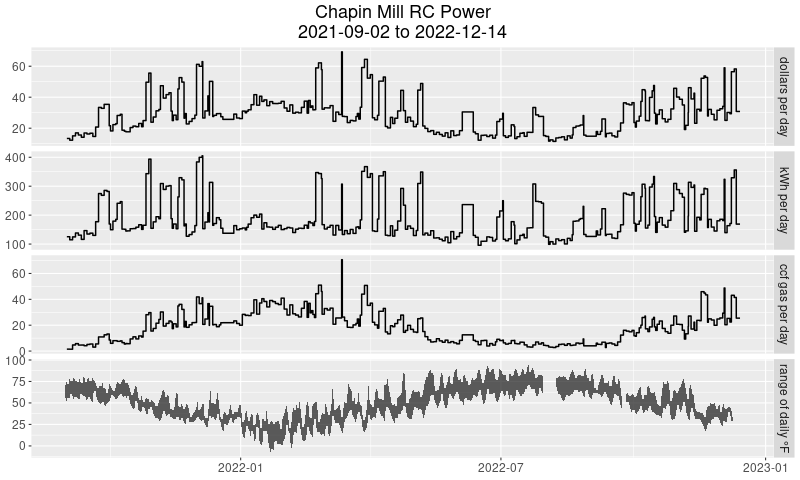
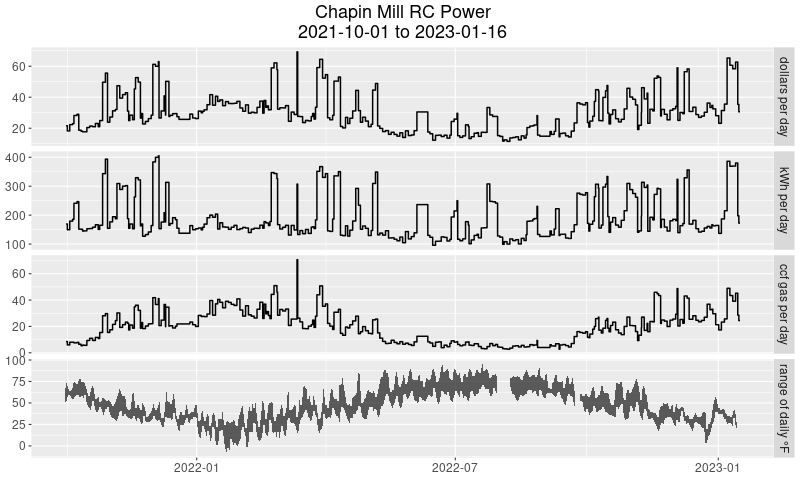
auto commit

diff --git a/index.html b/index.html
@@ -3,7 +3,7 @@
 "http://www.w3.org/TR/xhtml1/DTD/xhtml1-strict.dtd">
 <html xmlns="http://www.w3.org/1999/xhtml" lang="en" xml:lang="en">
 <head>
-<!-- 2022-12-15 Thu 07:37 -->
+<!-- 2023-01-16 Mon 05:14 -->
 <meta http-equiv="Content-Type" content="text/html;charset=utf-8" />
 <meta name="viewport" content="width=device-width, initial-scale=1" />
 <title>Chapin Mill Energy</title>
@@ -218,13 +218,13 @@
 <body>
 <div id="content" class="content">
 <h1 class="title">Chapin Mill Energy</h1>
-<div id="outline-container-org894d042" class="outline-2">
-<h2 id="org894d042">Energy Comparisons</h2>
-<div class="outline-text-2" id="text-org894d042">
+<div id="outline-container-org8f8fd15" class="outline-2">
+<h2 id="org8f8fd15">Energy Comparisons</h2>
+<div class="outline-text-2" id="text-org8f8fd15">
 </div>
-<div id="outline-container-orgef6f298" class="outline-3">
-<h3 id="orgef6f298">Energy Consumption and Weather</h3>
-<div class="outline-text-3" id="text-orgef6f298">
+<div id="outline-container-org07033db" class="outline-3">
+<h3 id="org07033db">Energy Consumption and Weather</h3>
+<div class="outline-text-3" id="text-org07033db">
 <p>
 The plot below describes outdoor air temperatures and the rate of
 retreat center energy consumption for the past few months. These
@@ -261,7 +261,7 @@ energy consumption.
 </p>
 
 
-<div id="orgc4639be" class="figure">
+<div id="org68b28ba" class="figure">
 <p><img src="energy.png" alt="energy.png" />
 </p>
 </div>
@@ -277,7 +277,7 @@ patterns.
 </p>
 
 
-<div id="org576e733" class="figure">
+<div id="org18c377b" class="figure">
 <p><img src="dollars.png" alt="dollars.png" />
 </p>
 </div>
@@ -292,14 +292,14 @@ dollar cost&#x2014;over all times of the year and over all events.
 </p>
 
 
-<div id="orga198dfc" class="figure">
+<div id="org37048b6" class="figure">
 <p><img src="hist.png" alt="hist.png" />
 </p>
 </div>
 
 <p>
 To be slightly more precise, 95% of the time the observed
-electricity power consumption was less than <code>307</code>
+electricity power consumption was less than <code>308</code>
 kWh per day, gas consumption was less than
 <code>44</code> hundred cubic feet per day and the
 overall energy cost was less than <code>52</code> dollars per
@@ -329,7 +329,7 @@ within 45 and 60 dollars.
 </p>
 
 
-<div id="orgebbebd7" class="figure">
+<div id="orgc35cd0a" class="figure">
 <p><img src="regime.png" alt="regime.png" />
 </p>
 </div>
@@ -359,7 +359,7 @@ heated for sesshin setup.)
 </p>
 
 
-<div id="org43f128c" class="figure">
+<div id="orgaef9295" class="figure">
 <p><img src="energy2.png" alt="energy2.png" />
 </p>
 </div>
@@ -375,7 +375,7 @@ value is the average of the temperature readings over that period.
 </p>
 
 
-<div id="orgab153d0" class="figure">
+<div id="org434cfd2" class="figure">
 <p><img src="scatter.png" alt="scatter.png" />
 </p>
 </div>
@@ -389,9 +389,9 @@ the results would not be very interesting.
 </div>
 </div>
 
-<div id="outline-container-org47ee8c7" class="outline-3">
-<h3 id="org47ee8c7">Natural gas</h3>
-<div class="outline-text-3" id="text-org47ee8c7">
+<div id="outline-container-orga3ed8e0" class="outline-3">
+<h3 id="orga3ed8e0">Natural gas</h3>
+<div class="outline-text-3" id="text-orga3ed8e0">
 <p>
 For a given level of occupancy of the retreat center it would be
 natural to consider gas consumption as consisting of two parts:
@@ -423,7 +423,7 @@ scaling factors relate gas consumption in ccf (100s of cubic feet)
 per day to degrees Fahrenheit. 95% confidence intervals are
 </p>
 
-<div id="vfhixwcxay" style="padding-left:0px;padding-right:0px;padding-top:10px;padding-bottom:10px;overflow-x:auto;overflow-y:auto;width:auto;height:auto;">
+<div id="anyzsqsvoc" style="padding-left:0px;padding-right:0px;padding-top:10px;padding-bottom:10px;overflow-x:auto;overflow-y:auto;width:auto;height:auto;">
 
   <table class="gt_table" style="font-family: -apple-system, BlinkMacSystemFont, 'Segoe UI', Roboto, Oxygen, Ubuntu, Cantarell, 'Helvetica Neue', 'Fira Sans', 'Droid Sans', Arial, sans-serif; display: table; border-collapse: collapse; margin-left: auto; margin-right: auto; color: #333333; font-size: 16px; font-weight: normal; font-style: normal; background-color: #FFFFFF; width: auto; border-top-style: solid; border-top-width: 2px; border-top-color: #A8A8A8; border-right-style: none; border-right-width: 2px; border-right-color: #D3D3D3; border-bottom-style: solid; border-bottom-width: 2px; border-bottom-color: #A8A8A8; border-left-style: none; border-left-width: 2px; border-left-color: #D3D3D3;" bgcolor="#FFFFFF">
   <thead class="gt_header">
@@ -491,16 +491,16 @@ predictions for times that are either idle, sesshin, SIMT or UR.)
 </p>
 
 
-<div id="org47fd315" class="figure">
+<div id="org20bec75" class="figure">
 <p><img src="diagnostic.png" alt="diagnostic.png" />
 </p>
 </div>
 </div>
 </div>
 
-<div id="outline-container-orgea5ecd8" class="outline-3">
-<h3 id="orgea5ecd8">Electricity</h3>
-<div class="outline-text-3" id="text-orgea5ecd8">
+<div id="outline-container-orgc76a65a" class="outline-3">
+<h3 id="orgc76a65a">Electricity</h3>
+<div class="outline-text-3" id="text-orgc76a65a">
 <p>
 For the period under consideration electricity usage did not vary
 with outside air temperature in a significant way. The data only
@@ -508,7 +508,7 @@ established separate estimates of electricity consumption in kWh
 per day for idle and occupied periods.
 </p>
 
-<div id="wxzoueajjk" style="padding-left:0px;padding-right:0px;padding-top:10px;padding-bottom:10px;overflow-x:auto;overflow-y:auto;width:auto;height:auto;">
+<div id="gglihdkzpj" style="padding-left:0px;padding-right:0px;padding-top:10px;padding-bottom:10px;overflow-x:auto;overflow-y:auto;width:auto;height:auto;">
 
   <table class="gt_table" style="font-family: -apple-system, BlinkMacSystemFont, 'Segoe UI', Roboto, Oxygen, Ubuntu, Cantarell, 'Helvetica Neue', 'Fira Sans', 'Droid Sans', Arial, sans-serif; display: table; border-collapse: collapse; margin-left: auto; margin-right: auto; color: #333333; font-size: 16px; font-weight: normal; font-style: normal; background-color: #FFFFFF; width: auto; border-top-style: solid; border-top-width: 2px; border-top-color: #A8A8A8; border-right-style: none; border-right-width: 2px; border-right-color: #D3D3D3; border-bottom-style: solid; border-bottom-width: 2px; border-bottom-color: #A8A8A8; border-left-style: none; border-left-width: 2px; border-left-color: #D3D3D3;" bgcolor="#FFFFFF">
   <thead class="gt_header">
@@ -569,9 +569,9 @@ dollars respectively.
 </div>
 </div>
 
-<div id="outline-container-orge402eaa" class="outline-2">
-<h2 id="orge402eaa">Summary of Rental Impact</h2>
-<div class="outline-text-2" id="text-orge402eaa">
+<div id="outline-container-org6851d23" class="outline-2">
+<h2 id="org6851d23">Summary of Rental Impact</h2>
+<div class="outline-text-2" id="text-org6851d23">
 <p>
 Taking a SIMT retreat to be typical of renters in general and
 assuming the usual costs for gas and electricity
@@ -599,9 +599,9 @@ The corresponding values for idle times are <code>29</code> ccf
 </div>
 </div>
 
-<div id="outline-container-org604cee6" class="outline-2">
-<h2 id="org604cee6">Details</h2>
-<div class="outline-text-2" id="text-org604cee6">
+<div id="outline-container-orgfd350f9" class="outline-2">
+<h2 id="orgfd350f9">Details</h2>
+<div class="outline-text-2" id="text-orgfd350f9">
 <p>
 The natural gas model is
 \[
@@ -652,7 +652,7 @@ The &alpha; parameter estimates and their standard errors look as
 follows:
 </p>
 
-<div id="izzgjxkoop" style="padding-left:0px;padding-right:0px;padding-top:10px;padding-bottom:10px;overflow-x:auto;overflow-y:auto;width:auto;height:auto;">
+<div id="hjwjpwawcb" style="padding-left:0px;padding-right:0px;padding-top:10px;padding-bottom:10px;overflow-x:auto;overflow-y:auto;width:auto;height:auto;">
 
   <table class="gt_table" style="font-family: -apple-system, BlinkMacSystemFont, 'Segoe UI', Roboto, Oxygen, Ubuntu, Cantarell, 'Helvetica Neue', 'Fira Sans', 'Droid Sans', Arial, sans-serif; display: table; border-collapse: collapse; margin-left: auto; margin-right: auto; color: #333333; font-size: 16px; font-weight: normal; font-style: normal; background-color: #FFFFFF; width: auto; border-top-style: solid; border-top-width: 2px; border-top-color: #A8A8A8; border-right-style: none; border-right-width: 2px; border-right-color: #D3D3D3; border-bottom-style: solid; border-bottom-width: 2px; border-bottom-color: #A8A8A8; border-left-style: none; border-left-width: 2px; border-left-color: #D3D3D3;" bgcolor="#FFFFFF">
   <thead class="gt_header">
@@ -721,7 +721,7 @@ where \(y\) is electricity consumption in kWh per day and the
 \(\epsilon\) are error.  The estimates and errors are:
 </p>
 
-<div id="xsjkodmiih" style="padding-left:0px;padding-right:0px;padding-top:10px;padding-bottom:10px;overflow-x:auto;overflow-y:auto;width:auto;height:auto;">
+<div id="zsmodofjxc" style="padding-left:0px;padding-right:0px;padding-top:10px;padding-bottom:10px;overflow-x:auto;overflow-y:auto;width:auto;height:auto;">
 
   <table class="gt_table" style="font-family: -apple-system, BlinkMacSystemFont, 'Segoe UI', Roboto, Oxygen, Ubuntu, Cantarell, 'Helvetica Neue', 'Fira Sans', 'Droid Sans', Arial, sans-serif; display: table; border-collapse: collapse; margin-left: auto; margin-right: auto; color: #333333; font-size: 16px; font-weight: normal; font-style: normal; background-color: #FFFFFF; width: auto; border-top-style: solid; border-top-width: 2px; border-top-color: #A8A8A8; border-right-style: none; border-right-width: 2px; border-right-color: #D3D3D3; border-bottom-style: solid; border-bottom-width: 2px; border-bottom-color: #A8A8A8; border-left-style: none; border-left-width: 2px; border-left-color: #D3D3D3;" bgcolor="#FFFFFF">
   <thead class="gt_header">
@@ -769,7 +769,7 @@ where \(y\) is electricity consumption in kWh per day and the
 </div>
 </div>
 <div id="postamble" class="status">
-<p class="date">Created: 2022-12-15 Thu 07:37</p>
+<p class="date">Created: 2023-01-16 Mon 05:14</p>
 <p class="validation"><a href="https://validator.w3.org/check?uri=referer">Validate</a></p>
 </div>
 </body>
